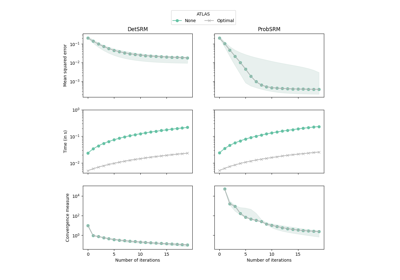
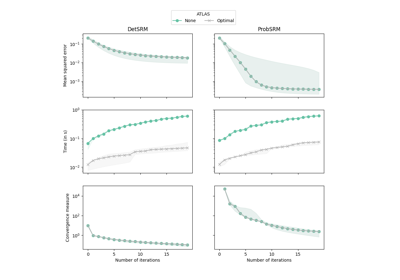
[skip ci] Updates

Changed region(s): [[0.15, 0.4, 0.48, 0.6286], [0.54, 0.4, 0.81, 0.6]]

diff --git a/searchindex.js b/searchindex.js
@@ -1,1 +1,1 @@
-Search.setIndex({docnames:["auto_examples/index","auto_examples/plot_synthetic_toy","auto_examples/sg_execution_times","index"],envversion:{"sphinx.domains.c":2,"sphinx.domains.changeset":1,"sphinx.domains.citation":1,"sphinx.domains.cpp":4,"sphinx.domains.index":1,"sphinx.domains.javascript":2,"sphinx.domains.math":2,"sphinx.domains.python":3,"sphinx.domains.rst":2,"sphinx.domains.std":2,sphinx:56},filenames:["auto_examples/index.rst","auto_examples/plot_synthetic_toy.rst","auto_examples/sg_execution_times.rst","index.rst"],objects:{"fastsrm.fastsrm":[[3,0,1,"","fastsrm"]],"fastsrm.identifiable_srm":[[3,1,1,"","IdentifiableFastSRM"]],"fastsrm.identifiable_srm.IdentifiableFastSRM":[[3,2,1,"","add_subjects"],[3,2,1,"","clean"],[3,2,1,"","fit"],[3,2,1,"","fit_transform"],[3,2,1,"","inverse_transform"],[3,2,1,"","transform"]],"fastsrm.srm":[[3,0,1,"","detsrm"],[3,0,1,"","probsrm"]]},objnames:{"0":["py","function","Python function"],"1":["py","class","Python class"],"2":["py","method","Python method"]},objtypes:{"0":"py:function","1":"py:class","2":"py:method"},terms:{"0":[1,2,3],"00":2,"000013":1,"001":3,"04":2,"05":3,"1":[1,3],"10":[1,3],"100":3,"12":3,"120":[1,2],"12537":3,"129":1,"15":1,"1909":3,"1e":[1,3],"1e0":1,"2":[1,3],"20":[1,3],"2019":3,"25":1,"3":1,"30":1,"4":1,"4009":1,"456504":1,"5":1,"685497":1,"75":1,"767339":1,"790836":1,"8":1,"9":1,"case":3,"class":3,"default":3,"do":3,"float":[1,3],"function":3,"import":1,"int":3,"new":3,"return":[1,3],"true":[1,3],A:3,At:3,If:3,The:[0,3],To:3,access:3,accuraci:1,across:3,add:3,add_subject:3,aggreg:3,algo:1,algorithm:3,algos_det:1,algos_group:1,algos_prob:1,all:[0,3],alpha:1,also:3,among:3,amount:3,an:3,ani:[1,3],anymor:3,append:[1,3],appli:3,approx:3,ar:3,arang:1,arrai:[1,3],arxiv:3,assum:3,astyp:1,atla:[1,3],attribut:3,auto:3,auto_exampl:2,auto_examples_jupyt:[0,3],auto_examples_python:[0,3],ax:1,axi:1,b:[1,3],base:1,basi:3,basis_list:3,bbox_to_anchor:1,below:3,bool:3,c:1,call:3,callback:[1,3],can:[0,3],center:1,circleci:1,clean:3,click:1,cm:1,code:[0,1,3],col:1,collect:3,color:1,compon:1,comput:[1,3],contain:3,control:3,converg:[0,2,3],coordin:3,copi:1,corrective_factor:3,covari:3,cpu:3,current:[1,3],current_it:1,current_tim:1,data:3,dataset:1,decomposit:3,def:1,delai:1,demonstr:[0,1,3],describ:3,det:[1,3],determinist:3,detsrm:1,diagon:3,did:1,diff:1,diff_b_a:1,dim:1,dir:3,dirichlet:1,disabl:3,do_exp:1,done:[0,1,3],dot:[1,3],download:[0,1,3],dure:3,each:3,element:3,els:1,enabl:3,encount:1,end:3,enumer:1,env:1,eras:3,error:[1,3],estim:3,exampl:1,execut:2,exist_ok:1,expect:3,f:1,factor:3,fall:3,fals:3,fast:[1,3],fastdet:1,fastprob:1,fastsrm:[0,2],featur:3,figsiz:1,file:[2,3],fill_between:1,fit:3,fit_transform:3,flatten:1,fmri:3,foral:3,free:3,from:[1,3],full:1,function_bas:1,galleri:1,gener:[0,1,3],get_cmap:1,given:3,gnorm:[1,3],gradient:3,h:3,ha:3,have:3,here:1,hold:3,home:1,http:3,i:[1,3],identifiable_srm:3,img:3,implicitli:3,index:1,inform:3,initi:3,input:3,instanc:3,invalid:1,inverse_transform:3,ipynb:1,iter:[1,3],itself:3,j:[1,3],joblib:1,jupyt:[0,1,3],k:1,l:3,label:1,larg:3,larger:3,legend:1,len:1,level:3,lib:1,librari:[0,3],linestyl:1,list:3,load:3,loc:1,log:[1,3],logloc:1,loss:1,low:3,m:1,makedir:1,marker:1,markeveri:1,martin:3,matplotlib:1,mb:2,mean:[1,3],measur:1,median:1,memori:3,method:[1,3],miniconda3:1,minor:1,minut:1,model:3,much:3,multi:3,multipleloc:1,n:[1,3],n_compon:3,n_featur:3,n_iter:[1,3],n_job:3,n_sampl:3,n_session:3,n_subject:3,n_timefram:3,n_view:3,n_voxel:3,name:1,ncol:1,need:3,nois:3,noise_vari:3,none:[1,3],norm:3,note:3,notebook:[0,1,3],noth:3,np:[1,3],number:[1,3],numpi:[1,3],numtick:1,o:1,object:3,one:3,ones:1,onli:3,optim:1,option:3,org:3,orthogon:3,os:1,otherwis:3,out:1,packag:1,parallel:1,paramet:3,path:3,pca:3,pdf:3,per:3,perform:3,pillow:3,pinho:3,plot:1,plot_synthetic_toi:[1,2],plt:1,plticker:1,power:3,prefer:3,preprocess:3,print:[1,3],prob:[1,3],probabilist:3,probsrm:1,prod:1,project:[1,3],provid:[0,3],py:[1,2],pyplot:1,python3:1,python:[0,1,3],quantil:1,rand:1,randn:1,random:[1,3],random_st:[1,3],randomst:[1,3],rang:1,re:1,reconstruct:3,reconstructed_data:3,record:3,reduc:3,refer:3,reg_error:1,respons:3,ress:1,result:[1,3],richard2019:3,richard:3,rng:1,row:1,run:[0,2,3],runtimewarn:1,s:[1,3],s_true:1,same:3,sampl:[0,3],save:3,script:1,second:1,seed:1,self:3,session:3,sessions_index:3,set2:1,set:3,set_minor_loc:1,set_titl:1,set_xlabel:1,set_ylabel:1,set_yscal:1,set_ytick:1,shape:3,share:[1,3],shared_respons:3,sharei:1,sharex:1,should:3,show:1,sigma:[1,3],site:1,small:1,so:3,sourc:[0,1,3],source_covari:3,space:3,specif:3,specifi:3,speed:1,sphinx:[0,1,3],sqrt:1,squar:1,srm:[1,3],start:1,step:3,stop:3,store:3,str:3,sub:1,subject:3,subject_index:3,subjects_index:3,subplot:1,subtract:1,t0:3,t_init:1,temp_dir:3,temporari:3,testenv:1,than:3,thank:3,thi:[1,3],thirion:3,tick_param:1,ticker:1,time:[0,3],timecours:3,titl:1,tol:[1,3],toler:3,total:[1,2],train:3,transform:3,type:3,up:1,upper:1,us:[1,3],use_pca:3,util:1,v:1,valu:[1,3],vari:3,varianc:3,verbos:3,veri:[1,3],vir:1,voxel:3,w:[1,3],w_i:3,warn:3,what:[0,3],when:3,where:3,which:[1,3],without:1,work:[0,3],x:[1,3],x_i:3,y:1,y_minor:1,yaxi:1,yield:3,zip:[0,3]},titles:["Examples Gallery","FastSRM : running time and convergence","Computation times","Examples Gallery"],titleterms:{comput:2,converg:1,detsrm:3,exampl:[0,3],fastsrm:[1,3],galleri:[0,3],identifiablefastsrm:3,probsrm:3,run:1,time:[1,2]}})
+Search.setIndex({docnames:["auto_examples/index","auto_examples/plot_synthetic_toy","auto_examples/sg_execution_times","index"],envversion:{"sphinx.domains.c":2,"sphinx.domains.changeset":1,"sphinx.domains.citation":1,"sphinx.domains.cpp":4,"sphinx.domains.index":1,"sphinx.domains.javascript":2,"sphinx.domains.math":2,"sphinx.domains.python":3,"sphinx.domains.rst":2,"sphinx.domains.std":2,sphinx:56},filenames:["auto_examples/index.rst","auto_examples/plot_synthetic_toy.rst","auto_examples/sg_execution_times.rst","index.rst"],objects:{"fastsrm.fastsrm":[[3,0,1,"","fastsrm"]],"fastsrm.identifiable_srm":[[3,1,1,"","IdentifiableFastSRM"]],"fastsrm.identifiable_srm.IdentifiableFastSRM":[[3,2,1,"","add_subjects"],[3,2,1,"","clean"],[3,2,1,"","fit"],[3,2,1,"","fit_transform"],[3,2,1,"","inverse_transform"],[3,2,1,"","transform"]],"fastsrm.srm":[[3,0,1,"","detsrm"],[3,0,1,"","probsrm"]]},objnames:{"0":["py","function","Python function"],"1":["py","class","Python class"],"2":["py","method","Python method"]},objtypes:{"0":"py:function","1":"py:class","2":"py:method"},terms:{"0":[1,2,3],"00":2,"000013":1,"001":3,"05":3,"1":[1,3],"10":[1,2,3],"100":3,"12":3,"12537":3,"129":1,"15":1,"1909":3,"1e":[1,3],"1e0":1,"2":[1,3],"20":[1,3],"2019":3,"25":1,"3":1,"30":1,"4009":1,"456504":1,"5":1,"602":[1,2],"685497":1,"75":1,"767339":1,"790836":1,"8":1,"9":1,"case":3,"class":3,"default":3,"do":3,"float":[1,3],"function":3,"import":1,"int":3,"new":3,"return":[1,3],"true":[1,3],A:3,At:3,If:3,The:[0,3],To:3,access:3,accuraci:1,across:3,add:3,add_subject:3,aggreg:3,algo:1,algorithm:3,algos_det:1,algos_group:1,algos_prob:1,all:[0,3],alpha:1,also:3,among:3,amount:3,an:3,ani:[1,3],anymor:3,append:[1,3],appli:3,approx:3,ar:3,arang:1,arrai:[1,3],arxiv:3,assum:3,astyp:1,atla:[1,3],attribut:3,auto:3,auto_exampl:2,auto_examples_jupyt:[0,3],auto_examples_python:[0,3],ax:1,axi:1,b:[1,3],base:1,basi:3,basis_list:3,bbox_to_anchor:1,below:3,bool:3,c:1,call:3,callback:[1,3],can:[0,3],center:1,circleci:1,clean:3,click:1,cm:1,code:[0,1,3],col:1,collect:3,color:1,compon:1,comput:[1,3],contain:3,control:3,converg:[0,2,3],coordin:3,copi:1,corrective_factor:3,covari:3,cpu:3,current:[1,3],current_it:1,current_tim:1,data:3,dataset:1,decomposit:3,def:1,delai:1,demonstr:[0,1,3],describ:3,det:[1,3],determinist:3,detsrm:1,diagon:3,did:1,diff:1,diff_b_a:1,dim:1,dir:3,dirichlet:1,disabl:3,do_exp:1,done:[0,1,3],dot:[1,3],download:[0,1,3],dure:3,each:3,element:3,els:1,enabl:3,encount:1,end:3,enumer:1,env:1,eras:3,error:[1,3],estim:3,exampl:1,execut:2,exist_ok:1,expect:3,f:1,factor:3,fall:3,fals:3,fast:[1,3],fastdet:1,fastprob:1,fastsrm:[0,2],featur:3,figsiz:1,file:[2,3],fill_between:1,fit:3,fit_transform:3,flatten:1,fmri:3,foral:3,free:3,from:[1,3],full:1,function_bas:1,galleri:1,gener:[0,1,3],get_cmap:1,given:3,gnorm:[1,3],gradient:3,h:3,ha:3,have:3,here:1,hold:3,home:1,http:3,i:[1,3],identifiable_srm:3,img:3,implicitli:3,index:1,inform:3,initi:3,input:3,instanc:3,invalid:1,inverse_transform:3,ipynb:1,iter:[1,3],itself:3,j:[1,3],joblib:1,jupyt:[0,1,3],k:1,l:3,label:1,larg:3,larger:3,legend:1,len:1,level:3,lib:1,librari:[0,3],linestyl:1,list:3,load:3,loc:1,log:[1,3],logloc:1,loss:1,low:3,m:1,makedir:1,marker:1,markeveri:1,martin:3,matplotlib:1,mb:2,mean:[1,3],measur:1,median:1,memori:3,method:[1,3],miniconda3:1,minor:1,minut:1,model:3,much:3,multi:3,multipleloc:1,n:[1,3],n_compon:3,n_featur:3,n_iter:[1,3],n_job:3,n_sampl:3,n_session:3,n_subject:3,n_timefram:3,n_view:3,n_voxel:3,name:1,ncol:1,need:3,nois:3,noise_vari:3,none:[1,3],norm:3,note:3,notebook:[0,1,3],noth:3,np:[1,3],number:[1,3],numpi:[1,3],numtick:1,o:1,object:3,one:3,ones:1,onli:3,optim:1,option:3,org:3,orthogon:3,os:1,otherwis:3,out:1,packag:1,parallel:1,paramet:3,path:3,pca:3,pdf:3,per:3,perform:3,pillow:3,pinho:3,plot:1,plot_synthetic_toi:[1,2],plt:1,plticker:1,power:3,prefer:3,preprocess:3,print:[1,3],prob:[1,3],probabilist:3,probsrm:1,prod:1,project:[1,3],provid:[0,3],py:[1,2],pyplot:1,python3:1,python:[0,1,3],quantil:1,rand:1,randn:1,random:[1,3],random_st:[1,3],randomst:[1,3],rang:1,re:1,reconstruct:3,reconstructed_data:3,record:3,reduc:3,refer:3,reg_error:1,respons:3,ress:1,result:[1,3],richard2019:3,richard:3,rng:1,row:1,run:[0,2,3],runtimewarn:1,s:[1,3],s_true:1,same:3,sampl:[0,3],save:3,script:1,second:1,seed:1,self:3,session:3,sessions_index:3,set2:1,set:3,set_minor_loc:1,set_titl:1,set_xlabel:1,set_ylabel:1,set_yscal:1,set_ytick:1,shape:3,share:[1,3],shared_respons:3,sharei:1,sharex:1,should:3,show:1,sigma:[1,3],site:1,small:1,so:3,sourc:[0,1,3],source_covari:3,space:3,specif:3,specifi:3,speed:1,sphinx:[0,1,3],sqrt:1,squar:1,srm:[1,3],start:1,step:3,stop:3,store:3,str:3,sub:1,subject:3,subject_index:3,subjects_index:3,subplot:1,subtract:1,t0:3,t_init:1,temp_dir:3,temporari:3,testenv:1,than:3,thank:3,thi:[1,3],thirion:3,tick_param:1,ticker:1,time:[0,3],timecours:3,titl:1,tol:[1,3],toler:3,total:[1,2],train:3,transform:3,type:3,up:1,upper:1,us:[1,3],use_pca:3,util:1,v:1,valu:[1,3],vari:3,varianc:3,verbos:3,veri:[1,3],vir:1,voxel:3,w:[1,3],w_i:3,warn:3,what:[0,3],when:3,where:3,which:[1,3],without:1,work:[0,3],x:[1,3],x_i:3,y:1,y_minor:1,yaxi:1,yield:3,zip:[0,3]},titles:["Examples Gallery","FastSRM : running time and convergence","Computation times","Examples Gallery"],titleterms:{comput:2,converg:1,detsrm:3,exampl:[0,3],fastsrm:[1,3],galleri:[0,3],identifiablefastsrm:3,probsrm:3,run:1,time:[1,2]}})

diff --git a/auto_examples/plot_synthetic_toy.html b/auto_examples/plot_synthetic_toy.html
@@ -274,7 +274,7 @@ Done
 <span class="nb">print</span><span class="p">(</span><span class="s2">&quot;Done&quot;</span><span class="p">)</span>
 </pre></div>
 </div>
-<p class="sphx-glr-timing"><strong>Total running time of the script:</strong> ( 0 minutes  4.120 seconds)</p>
+<p class="sphx-glr-timing"><strong>Total running time of the script:</strong> ( 0 minutes  10.602 seconds)</p>
 <div class="sphx-glr-footer class sphx-glr-footer-example docutils container" id="sphx-glr-download-auto-examples-plot-synthetic-toy-py">
 <div class="sphx-glr-download sphx-glr-download-python docutils container">
 <p><a class="reference download internal" download="" href="../_downloads/eefa709bfa15f19e4cbfadab95d67431/plot_synthetic_toy.py"><code class="xref download docutils literal notranslate"><span class="pre">Download</span> <span class="pre">Python</span> <span class="pre">source</span> <span class="pre">code:</span> <span class="pre">plot_synthetic_toy.py</span></code></a></p>

diff --git a/auto_examples/sg_execution_times.html b/auto_examples/sg_execution_times.html
@@ -69,7 +69,7 @@
              
   <section id="computation-times">
 <span id="sphx-glr-auto-examples-sg-execution-times"></span><h1>Computation times<a class="headerlink" href="#computation-times" title="Permalink to this headline"></a></h1>
-<p><strong>00:04.120</strong> total execution time for <strong>auto_examples</strong> files:</p>
+<p><strong>00:10.602</strong> total execution time for <strong>auto_examples</strong> files:</p>
 <table class="docutils align-default">
 <colgroup>
 <col style="width: 81%" />
@@ -78,7 +78,7 @@
 </colgroup>
 <tbody>
 <tr class="row-odd"><td><p><a class="reference internal" href="plot_synthetic_toy.html#sphx-glr-auto-examples-plot-synthetic-toy-py"><span class="std std-ref">FastSRM : running time and convergence</span></a> (<code class="docutils literal notranslate"><span class="pre">plot_synthetic_toy.py</span></code>)</p></td>
-<td><p>00:04.120</p></td>
+<td><p>00:10.602</p></td>
 <td><p>0.0 MB</p></td>
 </tr>
 </tbody>
